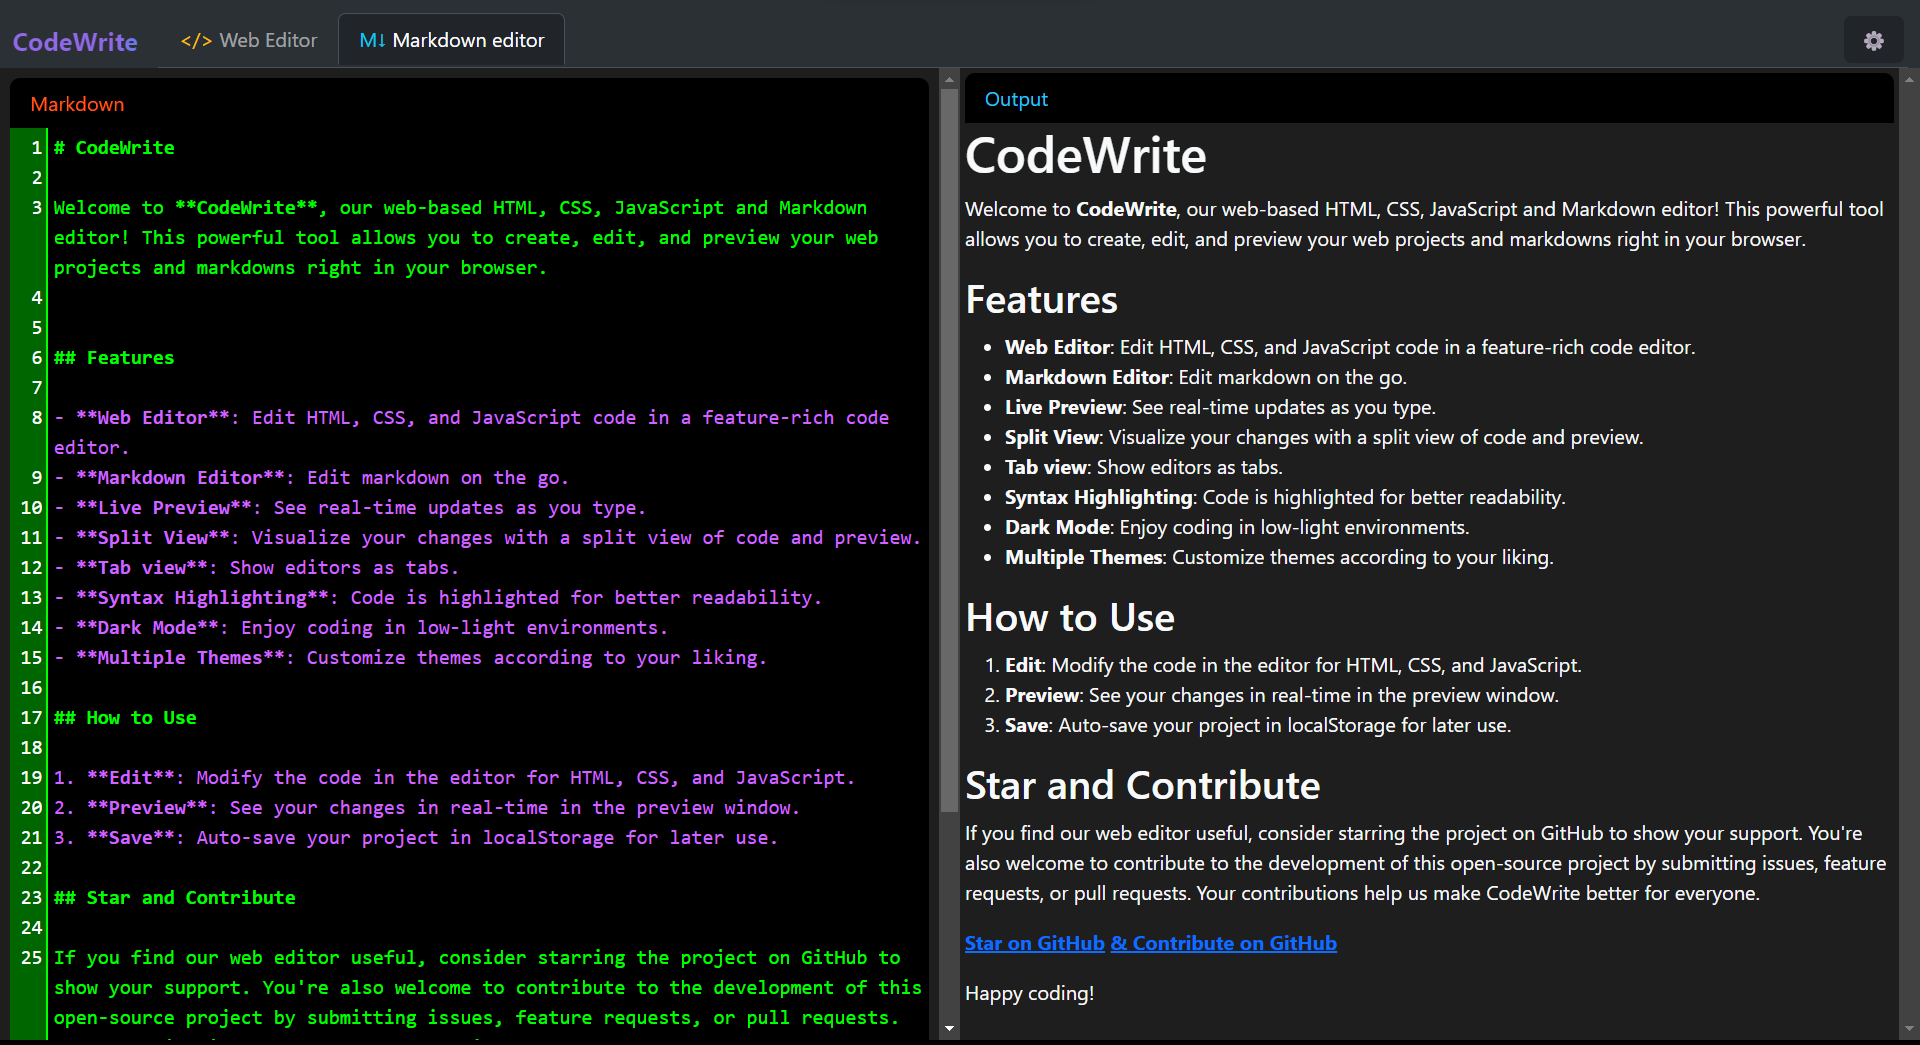
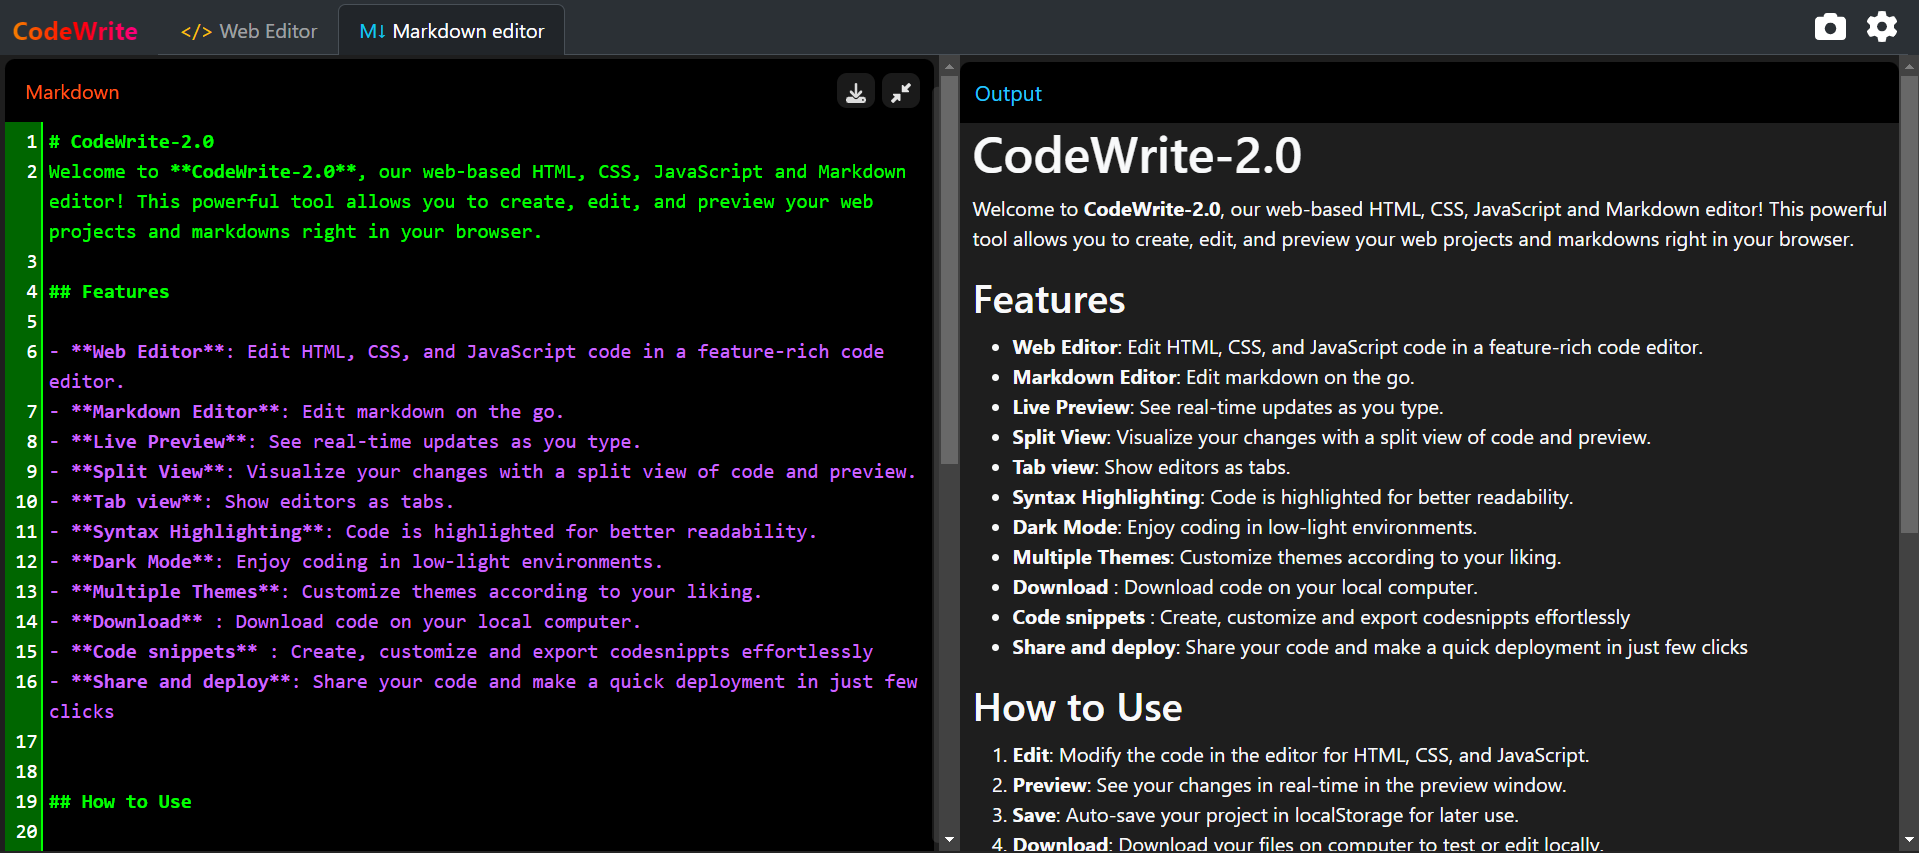
Docs: Update readme and assets

Changed region(s): [[0.0, 0.0, 1.0, 1.0]]

diff --git a/README.md b/README.md
@@ -20,10 +20,10 @@ Welcome to **CodeWrite-2.0**, our web-based HTML, CSS, JavaScript and Markdown e
 ![CodeWrite-2.0 WebSettings](./public/websettings.png)
 - **Download** : Download code on your local computer.
 - **Code snippets** : Create, customize and export codesnippts effortlessly
- ![CodeWrite-2.0 WebSettings](./public/snippet.png)
-- **Share and deploy**: Share your code and make a quick deployment in just few clicks
-
 ![CodeWrite-2.0 WebSettings](./public/snippet.png)
+![CodeWrite-2.0 WebSettings](./public/snippet2.png)
+- **Share and deploy**: Share your code and make a quick deployment in just few clicks
+![CodeWrite-2.0 WebSettings](./public/shared.png)
 
 ## How to Use
 
@@ -36,15 +36,15 @@ Welcome to **CodeWrite-2.0**, our web-based HTML, CSS, JavaScript and Markdown e
 
 - **PWA**: Make the core functionality work offline
 - **Collaborative** code editing using websockets
+- **Language Support** code compilation for other languages
 
 ## Star and Contribute
 
 If you find our web editor useful, consider starring the project on GitHub to show your support. You're also welcome to contribute to the development of this open-source project by submitting issues, feature requests, or pull requests. Your contributions help us make CodeWrite-2.0 better for everyone.
 
-[**Star on GitHub**](https://github.com/PrashantGyawali/CodeWrite-2.0)
-[**& Contribute on GitHub**](https://github.com/PrashantGyawali/CodeWrite-2.0)
+[**Star on GitHub**](https://github.com/PrashantGyawali/CodeWrite-2)
+[**& Contribute on GitHub**](https://github.com/PrashantGyawali/CodeWrite-2)
 
 Happy coding!
 
 ![Happy coding](./public/logo.ico)
-
